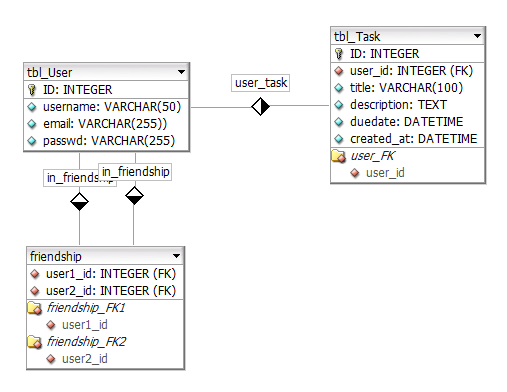
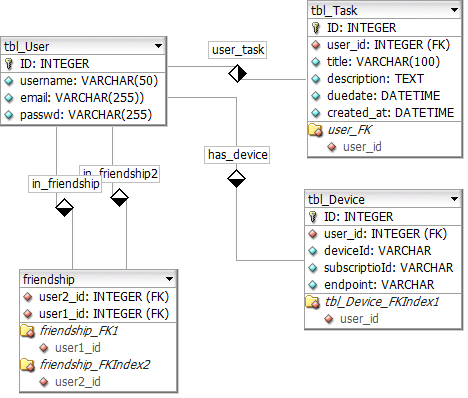
update

Changed region(s): [[0.6282, 0.0, 1.0, 0.8571], [0.0, 0.0918, 0.5983, 1.0], [0.4188, 0.3673, 0.5983, 0.4898]]

diff --git a/Netzbasierte Anwendungen/05_konzeption.tex b/Netzbasierte Anwendungen/05_konzeption.tex
@@ -11,7 +11,7 @@ Während Webanwendungen einen Fehler anzeigen, sobald der Benutzer ohne aktive I
 
 Eine hybride Webanwendung muss also die Möglichkeit haben, zu erkennen, ob eine Internetverbindung vorhanden ist oder nicht und entsprechend reagieren. Hier kommt die Service Worker API ins Spiel. Hauptaugenmerkt der Technologie ist die Bereitstellung einer optimalen Offline"=Benutzererfahrung.   
 
-Wie in \todo{Hier muss die Referenz hin} beschrieben handelt es sich beim Service Worker um eine Art Proxy zwischen der Webanwendung und dem Browser. Dadurch ist es möglich, Responses von HTTP-Request aufzunehmen und anzupassen. Dies ist eine Schlüsselfunktion, um Offlinefähigkeit anbieten zu können.
+Wie in Abschnitt \ref{sec_grundladge_serviceworker} beschrieben handelt es sich beim Service Worker um eine Art Proxy zwischen der Webanwendung und dem Browser. Dadurch ist es möglich, Responses von HTTP-Request aufzunehmen und anzupassen. Dies ist eine Schlüsselfunktion, um Offlinefähigkeit bieten zu können.
 
 \begin{table}[h]
 \centering
@@ -39,7 +39,7 @@ Tabelle \ref{tbl_konzeption_caching-strategien} zeigt die fünf grundsätzlich m
 Für den vorliegenden An \code{cacheFirst}-Verfahren bietet sich für die vorligenden Anwendungsfall an. Die angeforderten Ressourcen werden direkt aus dem Cache geladen und anschließend wird versucht, ob dieses mit Ressourcen aus dem Internet aktualisiert werden können(vgl. Bild \ref{image_konzept_caching-strategie}. Dadurch wird die Seite unabhängig vom Onlinezustand bei Anforderung schnell geladen.
 
 \begin{figure}[htp] \centering{
-\includegraphics[width=0.9\textwidth]{images/konzept_cache.pdf}}
+\includegraphics[width=0.9\textwidth]{images/konzept_cache.png}}
 \caption{Caching Strategie}
 \label{image_konzept_caching-strategie}
 \end{figure} 
@@ -53,16 +53,44 @@ Neben der in Abschnitt \ref{subsec_konzept_caching-statische-ressourcen} beschri
 \section{Web Push}
 \label{subsubsec_konzeption_serviceworker_push-api}
 
+Die Push-API bietet Webanwendungen die Möglichkeit, von einem Server gesendete Nachrichten zu empfangen, unabhängig davon, ob die Webanwendung im Vordergrund oder sogar aktuell geladen ist. \\
+Damit eine App, Push-Nachrichten empfangen kann, muss sie einen aktiven Service-Worker haben. Wenn der Service-Worker aktiv ist, kann er Push"=Benachrichtigungen über seinen internen Push"=Manager (\code{PushManager.subscribe()}) abonnieren.
+
+Die resultierende \code{PushSubscription} enthält alle Informationen, die die Anwendung benötigt, um eine Push"=Nachricht zu senden: einen Endpoint und den für das Senden von Daten erforderlichen Verschlüsselungsschlüssel.
+
+Der Service-Worker wird nach Bedarf gestartet, um eingehende Push"=Nachrichten zu behandeln, die an den \code{ServiceWorkerGlobalScope.onpush()}- Eventhandler übergeben werden. Dies ermöglicht es Webanwendungen, auf empfangene Push"=Nachrichten, beispielsweise durch Anzeigen einer Benachrichtigung zu reagieren. Für die Anzeige für Benachrichtigungen aus dem Service Worker heraus, wird laut Standard die Methode \code{ServiceWorkerRegistration.showNotification()} bereitgestellt.
+
+Jedes Abonnement für einen Service-Worker ist eindeutig. Der Endpoint für das Abonnement ist eine eindeutige URL. Die Kenntnis des Endpoints ist alles, was notwendig ist, um eine Nachricht an die Anwendung zu senden. Die Endpoint-URL muss daher geheim gehalten werden, oder andere Anwendungen könnten Push-Nachrichten an die Anwendung senden.
+
+\subsection{Ablauf}
+
 \begin{figure}[htp] \centering{
 \centering
 \includegraphics[width=0.9\textwidth]{images/architektur_serviceworker_push.pdf}}
 \caption{Push mittels Serviceworker (in Anlehnung an MozillaWiki \cite{MOZ_WIKI})}
 \quelle\url{https://wiki.mozilla.org/File:PushNotificationsHighLevel.png}
 \label{image_architektur-serviceworker-push}
-\end{figure}  
+\end{figure} 
 
+Abbildung \ref{image_architektur-serviceworker-push} zeigt den grundsätzlichen Ablauf von Registrierung des Push"=Managers, über die Übertragung der Endpointinformationen bis hin zum Versand von Push"=Nachrichten.
 
-\todo{Beschreibung (mit Schema) der Softwarearchitektur ...}
+Zuerst  muss der Nutzer der Web-App auf eine Anforderung für Webbenachrichtigungen oder sonstige verwendete Berechtigungen reagieren, indem er der App die Berechtigungen erteilt  (siehe Bild). \\
+Nachdem die Berechtigung erfolgt ist, wird der Service Worker, lokal  für die Webanwendung registriert. 
+Danach wird der Push"=Messaging"=Service, in unserem Fall „Firebase Cloud Messaging“ (kurz FCM) mit der Funktion \code{PushManager.subscribe()} abonniert. 
+
+Mit Hilfe von \code{PushSubscription.endpoint} kann der mit der Subscription verknüpfte Endpoint abgerufen werden. Die Details werden an den Applicationserver gesendet, so dass er Push"=Nachrichten senden kann, wenn dies erforderlich ist. Die Subscription-ID wird aus dem kompletten Endpoint entnommen. 
+
+Auf Serverseite wird der Endpoint und alle erforderlichen Details, wie die Sender ID und Geräte ID in der Datenbank gespeichert, so dass sie verfügbar sind, wenn eine Push"=Nachricht an einen Benutzer bzw. ein Endgerät gesendet werden soll. 
+
+Um eine Push"=Nachricht zu senden, muss ein HTTP-POST an die Endpoint"=URL gesendet werden. Die Anforderung muss einen TTL-Header enthalten, der begrenzt, wie lange die Nachricht in der Warteschlange stehen soll, wenn der Benutzer nicht online ist.  
+
+Um Nutzdaten in die Anfrage einzubinden, müssen diese verschlüsselt werden (mit dem öffentlichen Schlüssel des Clients (public key)).
+Da wir uns gegen eine Nutzdatensendung über den Browseranbieter entschieden haben, entfällt bei uns dieser Schritt. 
+
+Sobald die Push"=Nachricht vom Web Push Server erfolgreich versendet wurde, antwortet dieser mit einem Response, welcher eine eindeutige Message ID enthält. Diese referenziert auf eine bestimmte Push"=Benachrichtigung.
+
+Den vom Applicationserver zuvor generierten Nutzdaten (Payload) wird diese Message ID zugeordnet und auf für Clientanfragen vorgehalten. \\
+Sobald eine Push"=Nachricht vom Client empfangen wird, löst dies ein onPush"=Event aus. Der Event-Listener reagiert mit einer direkten Anfrage beim Applicationserver und fragt ggf. vorhandenen Payload für die aktuelle Message ID ab.
 
 \newpage
 \section{Architekturbeschreibung}
@@ -80,13 +108,15 @@ Die Anwendung beruht auf dem Client-Server-Prinzip. Dabei stellt der Client ledi
 \section{Applicationserver}
 \label{sec_konzeption_applicationserver}
 
+Für die Bereitstellung der Geschäftslogik wird ein eigener Applicationserver benötigt. Als Plattform soll Node.js eingesetzt werden. Dadurch ist es mit überschaubarem Aufwand möglich, einfache Webanwendungen zu erstellen. Die Implementierung einer RESTful-Schnittstelle ist ebenso problemlos möglich wie die Anbindung von ORM-Tools für die Kommunikation mit einer Datenbank. 
+
 \subsection{Datenbank}
 
-
+Der Applicationserver stellt ebenfalls die Datenbank zur Verfügung und Verwaltet deren Zugriffe. Als Datenbank soll eine noSQL-Datenbank-Technologie verwendet werden. Diese ermöglicht eine objektorientierte Speicherung der Daten bei maximaler Flexibilität des Schemas. Node.js unterstützt die Anbindung sowohl von MongoDB als auch CouchDB. Wie in Abschnitt \ref{sec_implementierung_mongodb} beschrieben wird für das Projekt die MongoDB-Implementierung verwendet.
 
 \subsection{REST-API}
 
-Zur Bereitstellung von CRUD-Funktionalitäten über standardisierte HTTP-Methoden (vgl. \ref{subsec_anforderungen_server} Anforderungen an Serverkomponente) wird dem Applicationserver eine RESTful-Schnittstelle hinzugefügt. Eine Übersicht über mögliche API-Routen mit entsprechender HTTP-Methode ist in Tabelle \ref{tbl_konzeption_rest} dargestellt. \\
+Zur Bereitstellung von CRUD-Funktionalitäten über standardisierte HTTP-Methoden (vgl. \ref{subsec_anforderungen_server}) wird dem Applicationserver eine RESTful-Schnittstelle hinzugefügt. Eine Übersicht über mögliche API-Routen mit entsprechender HTTP-Methode ist in Tabelle \ref{tbl_konzeption_rest} dargestellt. 
 
 \begin{table}[h]
 \centering
@@ -104,6 +134,7 @@ Zur Bereitstellung von CRUD-Funktionalitäten über standardisierte HTTP-Methode
     \hline
     /push/devices & GET & Gibt alle registrierten Geräte zurück \\
     /push/devices & POST & Registriert ein neues Gerät \\
+    /push/payload/:messageId & GET & Gibt den Payload für MessageId zurück \\
 \end{tabular}
 \caption{Übersicht API Routen}
 \label{tbl_konzeption_rest}
@@ -111,7 +142,20 @@ Zur Bereitstellung von CRUD-Funktionalitäten über standardisierte HTTP-Methode
 
 \subsubsection{Authentifizierung und Autorisierung} 
 
-Für den Zugriff auf die CRUD-Methoden ist eine Benutzerauthentifizierung und Autorisierung notwendig. Dazu wird das Token-Verfahren verwendet.
+Für den Zugriff auf die CRUD-Methoden ist eine Benutzerauthentifizierung und Autorisierung notwendig. Registrierte Benutzer authentifizieren sich mittels Benutzername und Passwort über die Route \url{/api/authenticate} am Applicationserver. \\
+Die notwendigen Parameter müssen im Request"=Body übertragen werden. Bei erfolgreicher Authentifizierung antwortet der Server mit einem Token innerhalb des Response"=Body. Allen weiteren Requests wird der Security"=Token als \code{Authorization}"=Header oder Body"=Parameter hinzugefügt. \\
+Wird eine REST-Route ohne Authorization aufgerufen, antwortet der Server mit einem \code{HTTP 401}"=Response und signalisiert damit, dass eine Authentifizierung erforderlich ist. 
+
+\section{Datenmodel}
+\label{sec_konzeption_datamodel}
+
+
+
+\begin{figure}[htp] \centering{
+\includegraphics[width=0.9\textwidth]{images/model.png}}
+\caption{Datenmodell}
+\label{image_konzeption_datenmodell}
+\end{figure} 
 
 \newpage
 \section{Client-Oberfläche}
@@ -122,13 +166,3 @@ Für den Zugriff auf die CRUD-Methoden ist eine Benutzerauthentifizierung und Au
 ... Beschreibung des UI ...\\
 
 Um das \glqq{}Look and Feel\grqq{} einer nativen App zu erreichen wird das UI-Framework \textbf{nativeDroid2} verwendet. \\
-
-\newpage
-\section{Datenmodel}
-\label{sec_konzeption_datamodel}
-
-\begin{figure}[htp] \centering{
-\includegraphics[width=0.9\textwidth]{images/model.png}}
-\caption{Datenmodell}
-\label{image_konzeption_datenmodell}
-\end{figure} 

diff --git a/Netzbasierte Anwendungen/04_vorbetrachtung.tex b/Netzbasierte Anwendungen/04_vorbetrachtung.tex
@@ -1,20 +1,19 @@
 \chapter{Grundlagen}
 
-- grobe Einführung 
-
-- eventuell Grundkonzept
-
-- Welche Push Arten gibt es?
-
-  a) Websocket/ServerSent Events
-  
-  b) PUSH-API
-
-- Welche Datenänderungen auf Serverseite pusht man mit welcher Variante?
-
-Viel müssen wir hier nicht schreiben...Grundlagen sollten eigentlich allen bekannt sein.
-
 \section{Serviceworker}
+\label{sec_grundladge_serviceworker}
 
-\section{Push API vs. Notification API}
+Ein Service Worker ist eine W3C-Standard-Webtechnik bei der JavaScript-Code im Hintergrund von Web-Browsern ausgeführt wird. Mit Hilfe von Service Worker ist es möglich, essentielle Funktionalitäten wie Caching zur Offline"=Verwendbarkeit (z.B. bei Ausfall der Internetverbindung) von Web-Anwendungen, Aktualisierungen von Inhalten im Hintergrund, aber auch die von nativen Apps bekannten Push"=Benachrichtigungen(Push"=Notifications) zu ermöglichen. Dies findet alles im Hintergrund des Browsers statt und macht somit eine Installation von Software oder Software-Diensten unnötig.\\
+
+Der Service Worker kann als Proxy fungieren und zum anderen vom Server gesendete Benachrichtigungen, selbst dann empfangen, wenn gerade keine Web-Page der entsprechenden Domain / Web-App geöffnet ist. 
+
+
+\section{Web Push API}
+\label{sec_grundlagen_web-push}
+    
+Bei Web Push handelt es sich um eine Erweiterung des bekannten Service-Worker-Standards. Solange der Browser geöffnet ist, können Benachrichtigungen von Webseiten empfangen werden, selbst wenn der eigentliche Tab nicht geöffnet ist. So kann man E-Mail-Tab schließen und trotzdem über eingehende Mails informiert werden. Da keine zusätzlichen Apps oder Text-Nachrichten für direkte Notifications nötig sind, ergibt sich ein großer Vorteil für Speichernutzung, Performance und Akkulaufzeit von Mobilgeräten. \\
+Web Push benötigt genauso wie die Standortfreigabe oder der Kamerazugriff eine (jederzeit wiederrufbare) Berechtigung, bevor eine Webseite auf Push-Events reagieren und Notifications anzeigen kann. \\
+
+Durch eine ständige Verbindung zu einem Push Service in unserem Fall „Firebase Cloud Messaging“ , der als zentrale Schaltstelle für Nachrichten fungiert, werden Web-Push-Benachrichtigungen ermöglicht. Ursprünglich betrieb jeder Browser-Anbieter einen eigenen Push"=Service zum Schutz der Privatsphäre. Erst kürzlich wurden aber GCM (Google Cloud Messaging Push Service von Google) und Firebase (Mozilla Firefox Push Service) zu Firebase Cloud Messaging zusammengelegt. \\
+Dabei erhält jede Webseite einen anderen, anonymen Web Push Identifier zur Verhinderung von seitenübergreifenden Zuordnungen. Zudem müssen die Nutzerdaten über ein Public-Key-Verfahren verschlüsselt werden. Der Service Worker meldet sich nur beim Push-Dienst an, wenn der User die notwendigen Push"=Berechtigungen erteilt hat. \\
 
